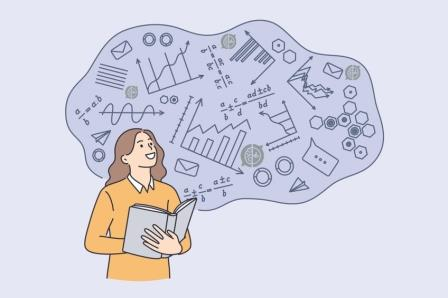
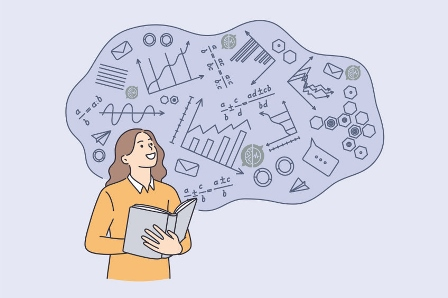
uploaded new blog, updated some images for better quality

diff --git a/pages/blog/blog-10-what-is-neuropsychology-translation.md b/pages/blog/blog-10-what-is-neuropsychology-translation.md
@@ -1,0 +1,111 @@
+---
+title: What is neuropsychology translation (and other questions)? 
+date: '2022-07-31'
+description: Neuropsychology is a subfield of psychology that also produces all kind of documentation that requires translation. Keep reading to know more about translation of neuropsychology tests and other materials. / La neuropsicología es una rama de la psicología en la que también se generan muchos documentos que es necesario traducir. En este artículo, comparto información sobre la traducción de test neuropsicológicos y otro material.
+metaSharing: Neuropsychology is a subfield of psychology that also produces all kind of documentation that requires translation. Keep reading to know more about translation of neuropsychology tests and other materials.
+picture: ../blog10.jpg
+tags:
+  - English
+  - Psychology
+  - Translation
+  - Neuropsychology
+---
+
+<p>Neuroscience is one of today&rsquo;s hot topics. Every day, it seems there&rsquo;s a new development or invention in the discipline. There&rsquo;s certainly a lot of truth when people say the brain is &ldquo;the final frontier.&rdquo;</p>
+<p>One of the branches of neuroscience is neuropsychology. Sounds exciting? It is! But probably not in the way people imagine it to be. Like many other specialties and subspecialties, the day-to-day practice of a neuropsychologist can remain a mystery for people outside the field (even other psychologists).</p>
+<p>In this post, I&rsquo;d like to touch on neuropsychology as a translation specialism. In a later post, I&rsquo;ll go into more detail about the ways a specialized translator can help test designers, test publishers, CROs, and authors in their validation efforts.</p>
+
+<p><strong><u>Content</u></strong></p>
+<li><b><a href="#anchor-1">What makes neuropsychology different from other translation fields?</a></b></li>
+<li><b><a href="#anchor-2">Why and what to translate in neuropsychology?</a></b></li>
+<li><b><a href="#anchor-3">What could go wrong?</a></b></li>
+<li><b><a href="#anchor-4">Conclusion</a></b></li>
+
+<p><strong><u>&nbsp;</u></strong></p>
+<p  style="scroll-margin-top: 50px" id="anchor-1"><span></p>
+<h1><p><strong>What makes neuropsychology different from other fields?</strong></p></h1>
+
+<p align="center">
+  <img src="../../blog10-1.jpg " alt="Two scientists examining a brain with a magnifying glass">
+</p>
+
+<p>&nbsp;</p>
+<p>There are some things that make neuropsychology different from other psychology settings, which impacts the type of translations a neuropsychology translator will do.</p>
+<p><strong>The day-to-day of the clinical neuropsychologist is not even remotely similar to the &ldquo;patient on divan and psychologist listening&rdquo; image</strong> that probably pops into most people&rsquo;s minds. In fact, a neuropsychologist&rsquo;s day is usually filled with assessment appointments, report writing, or cognitive rehab activities (all of which involve multiple steps and processes).</p>
+<h2>Neuropsychology assessment and tests</h2>
+<p>The instruments we use to measure processes are different from what most people probably think about, that is questionnaires (personality inventories, achievement tests, etc.) or similar. Of course, neuropsychologists also use scales, structured and semi-structured interviews, and questionnaires for assessment<strong>. But our instruments can look completely different, as we need to test the performance of the person through different conditions</strong>; some are somewhat natural (e.g., describing a scene) and others less so (e.g., learning &ldquo;random&rdquo; words).</p>
+<p>But what about language? In general, psychologists are <a href="https://link.springer.com/article/10.1007/s40167-017-0050-2">very interested</a> in how culture and language influence measurement. Specifically, as neuropsychologists, we are very aware of the impact of language and culture on our tests and we have a specific field of study called <a href="https://www.taylorfrancis.com/books/edit/10.4324/9780203936290/international-handbook-cross-cultural-neuropsychology-barbara-uzzell-marcel-ponton-alfredo-ardila?refId=0a8fca94-72e9-4e90-ae54-0c5e32b73386&amp;context=ubx">cross-cultural neuropsychology.</a></p>
+
+<p  style="scroll-margin-top: 50px" id="anchor-2"><span></p>
+<h1><p><strong><h1>Why and what to translate in neuropsychology?</h1></strong></p></h1>
+
+<p align="center">
+  <img src="../../blog10-2.jpg " alt="Three people sharing ideas with a lightbulb/brain in the background">
+</p>
+<p>&nbsp;</p>
+<p>There are several situations in which someone might need to translate neuropsychological tests to another language. These include (but are not limited to):</p>
+<p><strong>Clinical research: </strong>These include multisite clinical trials or decentralized clinical trials with cognitive outcomes. They involve patients from different regions and may require adaptations in several languages for clinical outcome assessments. They can be anything from the more &ldquo;classical&rdquo; patient-reported outcomes (PROs) to clinician-reported outcomes (ClinROs), observer-reported outcomes (ObsROs), and performance outcomes (PerfOs).</p>
+<p><strong>Fairness: </strong>Today, there are efforts to avoid language and culture (rather than the construct to be measured) being the main differentiator between test takers. To this end, translated tests might be offered as one of many test accommodations. Access to previously adapted and validated tests in other languages is better than relying on test administrators for impromptu interpretations, which can have unpredictable effects.</p>
+<p><strong>Academia:</strong> Contributing and sharing with the international scientific community might be a strong motivator for researchers and university groups to adapt an existing measure to their context and share their findings with the world.</p>
+<h2>What can be translated?</h2>
+<p>Content to be translated depends on the type of measure and the complexity of the administration and materials. In general, it includes:</p>
+<ul>
+<li><strong>Test stimulus material: </strong>stimulus booklets and other stimulus material.</li>
+<li><strong>Manuals/instructions for test administrators: </strong>administration and technical manuals, record forms, scoring sheets.</li>
+</ul>
+<p>(Both types of content include material to be used by test administrators and test takers).</p>
+<ul>
+<li><strong>Academic material:</strong> abstracts, posters, papers, presentations, etc.; all related to the research.</li>
+<li><strong>Editorial/literary material:</strong> popularization books, student manuals, specialized books.</li>
+</ul>
+<p  style="scroll-margin-top: 50px" id="anchor-3"><span></p>
+<h1><p><strong>What could go wrong?</strong></p></h1>
+<p>Some people know their discipline so well that it&rsquo;s sometimes difficult to imagine how things can go wrong, but little errors can all add up, and having an appropriate adaptation process that doesn&rsquo;t include specialized linguists can have consequences.</p>
+<p><a href="https://jpro.springeropen.com/articles/10.1186/s41687-020-00248-z">The ISOQOL Translation and Cultural Adaptation Special Interest Group</a> issued the following warning about test materials (stimuli and rater/patient instructions) for performance assessment on clinical trials (which include cognitive assessments):</p>
+<p><em>For constraints of timelines or budget, this material is often neglected, poorly translated, or even not translated at all due to the assumption that clinicians and site personnel are sufficiently fluent in English. Expecting clinicians and site personnel to use English forms and instruction manuals can dramatically result in bias or incorrect interpretations of the measure content that threaten the validity of the data</em>.</p>
+<h2>Small errors that add up</h2>
+<p>I was involved in the English-to-Spanish adaptation of a neuropsychology battery for the assessment of executive functions for a clinical trial.</p>
+<p>In the translation of the administration manual, the meaning of &ldquo;easel position&rdquo; was misunderstood and the term was mistranslated. The translator thought it referred to a painting task and translated accordingly. But it actually referred to the position of a stimulus book that opens in such a way that it can stay upright and face the patient when flipping the pages.</p>
+
+<p align="center">
+  <img src="../../blog10-3.jpg " alt="Neuropsychology test manuals and material">
+</p>
+<p align="center">
+  <i>On the left, an example of a stimulus book in easel position (Source: Pearson Clinical)</i>
+
+<p>This completely changed the meaning of the instruction. If it had passed unnoticed, it might have affected what the different test administrators understood, leaving the door wide open for interpretations that could lead to variability in administration.</p>
+
+<p  style="scroll-margin-top: 50px" id="anchor-4"><span></p>
+<h1><p><strong>Conclusion</strong></p></h1>
+
+<p>Neuropsychology is a highly specialized scientific subfield but also a highly specialized linguistic subfield. If you don&rsquo;t have a linguistic background, you might not know that translators specialize in specific areas (popular fields are medical, legal, technical, and marketing), and <a href="https://psytranslations.com/blog/blog_7_I_Psychology_translation_as_a_specialism/">psychology translation is one of the subfields</a> that requires a specialized approach.</p>
+<p>I hope, by now, you&rsquo;re convinced that neuropsychology is not only a specialization within psychology but also within translation.</p>
+<p>I really believe <strong>this understanding will help in your search for the right partners. Incorporating a neuropsychology translator or specialized linguist into your validation process will help you avoid errors that others might not detect, but that can add up</strong>.</p>
+<p>If you want to know exactly how translators specializing in neuropsychology can help you, don&rsquo;t miss my next post!</p>
+<p>
+    -----------
+</p>
+<p>
+<p align="left">
+  <img src="../../karol small.jpg " alt="Karol Tapia de Moya Neuropsychology translator">
+</p>
+    <strong>
+        <a href="https://psytranslations.com/contact/">Karol Tapia de Moya</a>
+    </strong>
+    is a psychologist and English to Spanish translator. She specializes in the
+    fields of psychology, healthcare and medicine, and education. In this blog,
+she writes about everything she knows
+    or has learned that could be useful or of interest to you!
+</p>
+<div>
+    <div>
+        <div id="_com_7">
+        </div>
+    </div>
+</div>
+<div>
+    <div>
+        <div id="_com_7">
+        </div>
+    </div>
+</div>
